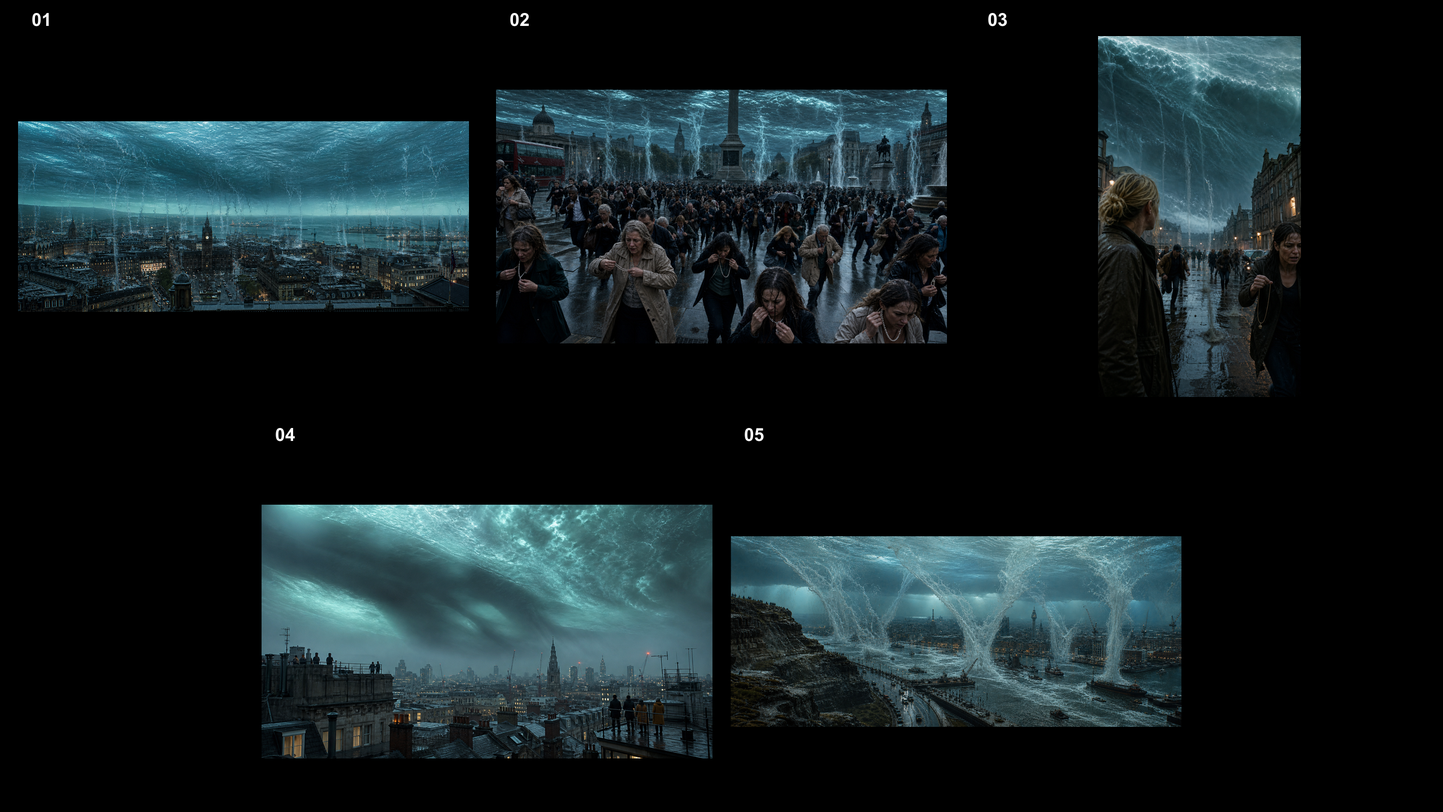
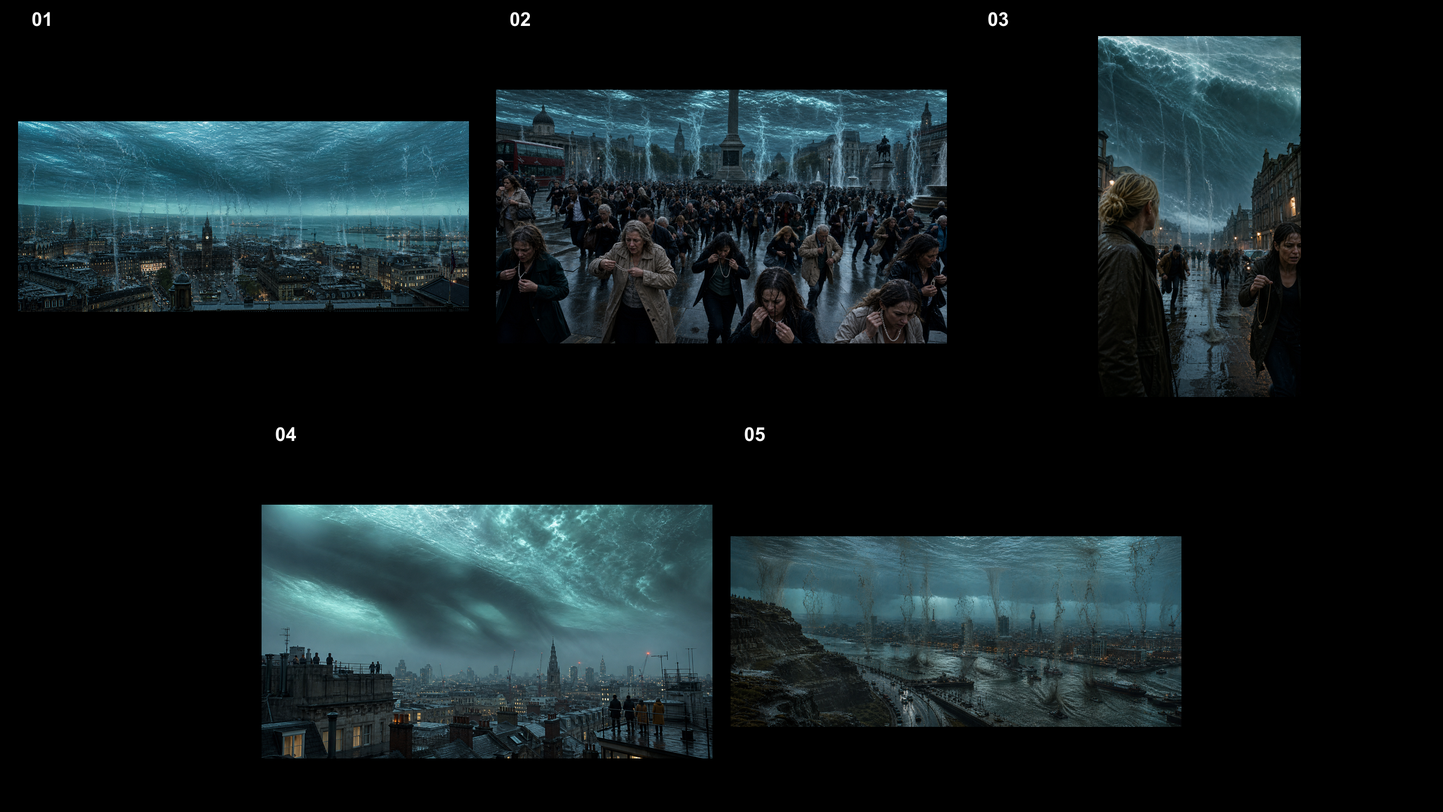
assets: remove fountain read from Sea Above harbour

Changed region(s): [[0.5, 0.6562, 0.8125, 0.9062]]

diff --git a/video-pipeline/asset-library/10-storyboard-videos/VID_MR_SEA_ABOVE_FILE_001/visual-reconstruction/reports/world-generation.md b/video-pipeline/asset-library/10-storyboard-videos/VID_MR_SEA_ABOVE_FILE_001/visual-reconstruction/reports/world-generation.md
@@ -6,7 +6,7 @@ Status: candidate-only; no scene is promoted to an accepted production path
 
 ## Method and input boundary
 
-Each scene's initial candidate was generated with the built-in image generation tool, one call per distinct scene, with no image input. Scene 01, Scene 02, Scene 03 and Scene 05 then used their own current candidate/source as the positive input for documented single-target repairs; Scene 01 had one independent-review water-physics/Mother repair, Scene 02 had one sky-and-suction repair, Scene 03 had one jewelry-state repair, and Scene 05 had an earlier banner cleanup followed by one independent-review water-physics repair using its immediately preceding final. No old or rejected environment, first-frame, style-test, protagonist, or unrelated project raster image was supplied as a positive input. No CLI/API fallback, video generation, or paid generation was used.
+Each scene's initial candidate was generated with the built-in image generation tool, one call per distinct scene, with no image input. Scene 01, Scene 02, Scene 03 and Scene 05 then used their own current candidate/source as the positive input for documented single-target repairs; Scene 01 had one independent-review water-physics/Mother repair, Scene 02 had one sky-and-suction repair, Scene 03 had one jewelry-state repair, and Scene 05 had an earlier banner cleanup, one independent-review water-physics repair using its immediately preceding final, and a second independent-review water-physics repair using the pre-arc source recorded below after the arc repair was rejected. No old or rejected environment, first-frame, style-test, protagonist, or unrelated project raster image was supplied as a positive input. No CLI/API fallback, video generation, or paid generation was used.
 
 The generated source files remain under `C:\Users\11458\.codex\generated_images\01a02344-d149-7241-b7c0-8f71c94ec11e`. Final project outputs are under `visual-reconstruction/world/`. Sharp was used with `fit: "cover"`, `position: "centre"`, Lanczos resizing, sRGB conversion, alpha removal, and PNG output; no geometric stretching was used. Masters were inspected at full resolution before and after normalization.
 
@@ -288,17 +288,83 @@ Avoid: downward rain or sediment dominance, horizontal-only turbulence, ordinary
 - Inspection evidence: the repaired full-resolution still preserves the wet cliff, working harbour/river, dense city skyline, civic towers, cranes, vessels, road, vehicles, people, asymmetrical ultra-wide perspective and overhead ocean. Four broad irregular upward-curving water sheets have visible harbour/river origins around quays and boats, broken tapered filaments, and readable top connections into the sea underside; downward sediment curtains no longer dominate. The broad arcs are intentionally prominent for still-frame reverse-flow proof and remain a review risk for possible large water-wall/fountain interpretation, but no narrow tornado funnel, perfect column, magic beam, text, logo or watermark is visible.
 - Rejected reason for prior final: independent review found downward-hanging sediment dominance and horizontal/ordinary harbour turbulence without unmistakable harbour-to-ocean reverse-flow paths.
 
+### Independent review round 2 — anti-fountain water-physics repair
+
+Independent review round 2 rejected the preceding Scene 05 water-physics repair because four smooth repeated near-parabolic arcs and bright splash bases read as conventional giant fountains. That arc-repair final and its source were not used as positive input for the replacement below. The replacement used only the pre-arc Scene 05 source recorded above, which preserves the approved cliffs, harbour, city, ships, cranes, vehicles, people, lighting and composition without inheriting the arc geometry.
+
+The first round-2 result was self-rejected after full-resolution inspection: although it removed the parabolic arcs and bright crowns, several near-vertical paths still read as repeated fountain-like columns. It was not used as positive input for the final round-2 result. A second single-target edit again used only the pre-arc source.
+
+#### Exact intermediate round-2 repair prompt (self-rejected)
+
+```text
+Use case: precise-object-edit
+Asset type: content-preserving epic ultra-wide live-action science-fiction disaster coastal panorama
+Input images: Image 1 is the sole edit target and positive reference: the pre-arc Scene 05 candidate with wet cliffs, harbour, dense city, ships, cranes, vehicles, people and overhead ocean. Do not use the current arc-repair image or any other image.
+Primary request: change ONLY the water physics. Replace the existing downward sediment and turbulence with 6–9 non-repeating, ragged, torn, near-vertical water sheets and ribbons rising directly from varied harbour/river surface locations around boats and quays into the overhead ocean. Keep every path within about 15 degrees of vertical; vary widths, heights, spacing and interruption points. Shred each edge into droplets and broken strands; let some ribbons merge into the ocean underside. The still must prove upward suction through surface deformation, not trajectory: at every lower origin the harbour surface itself is visibly stretched upward into a concave dimple, trough or temporarily exposed dark depression, with no bright splash crown or foamy fountain base.
+Scene/backdrop: preserve the exact pre-arc panorama: wet layered cliff at left, working harbour and river, dense illuminated coastal city skyline and civic tower, cranes, boats, road vehicles, tiny people, practical lights, asymmetrical coastline and the enormous sedimented overhead ocean.
+Style/medium: grounded live-action prestige science-fiction disaster photography with invisible VFX, physically coherent water/light/scale, natural wet materials, ARRI Alexa 35 / fine 35 mm film character, restrained cyan caustics, no synthetic render look.
+Composition/framing: preserve the exact asymmetrical 14–18 mm rectilinear ultra-wide composition, camera height, coastline, skyline, harbour layout, ships, cranes, roads, vehicles and people. Do not crop, stretch, reframe, mirror or symmetrize.
+Lighting/mood: preserve storm-dark exposure, harbour/city warmth, atmospheric perspective and transmitted light through the overhead sea. Lower origins should be dark wet deformations with realistic reflections, not bright highlights.
+Materials/textures: real wet cliff rock and grass, stone, steel, rough harbour water, translucent torn sheets, suspended sediment and small droplets integrated with the ocean underside.
+Constraints: change only water behavior and minimum local occlusion needed to show the dark surface depressions; preserve every landscape, city, harbour, ship, crane, vehicle, person, light, camera and ocean invariant. No text, logos or watermark.
+Avoid: parabolic arcs, fountain trajectories, symmetrical spacing, repeated arches, giant fountains, bright fountain bases, splash crowns, narrow tornado funnels, vortex rotation, perfect columns, ordinary waterspouts, ordinary vessel wakes as the main effect, magical beams, glowing energy, particle soup, glossy CGI, oil painting, matte painting, game concept art, altered skyline, removed boats, new objects, crop, stretch, mirror, watermark.
+```
+
+#### Exact final round-2 repair prompt
+
+```text
+Use case: precise-object-edit.
+Asset type: content-preserving epic ultra-wide live-action science-fiction disaster coastal panorama.
+Image 1 is the sole positive reference: the pre-arc Scene 05 panorama with wet cliff, working harbour, dense coastal city, civic tower, ships, cranes, vehicles, people and the immense overhead ocean. Do not use any arc-repair candidate or any other image as reference.
+
+Change only the water physics. Preserve every cliff, building, tower, crane, ship, vehicle, person, practical light, road, harbour layout, camera position, asymmetrical coastline, overhead ocean and live-action exposure from Image 1.
+
+Create exactly 6–8 NON-REPEATING, broad torn water SHEETS/CURTAINS rising from the harbour or river surface toward the overhead sea. They are thin, irregular translucent planes and shredded hanging ribbons, not discrete jets or columns: vary their widths dramatically, heights, gaps, translucency and interruption points; edges fray into scattered droplets; no two have matching shape or spacing. Keep each overall rise near vertical, no more than about 15 degrees from vertical, with no lateral trajectory. Some fragments should merge into the underside of the ocean; others should stop and break apart. Make the reverse flow read through the still image: at each lower origin the actual harbour surface is pulled upward into a long dark concave trough/dimple, like a wet sheet being peeled from the water, with a temporarily exposed dark depression and stretched ripples extending into it. The surface deformation must continue into the thin sheet. No white spray, no splash crown and no bright base.
+
+Water appearance: dark heavy seawater, suspended sediment, realistic refraction, torn edges and gravity-broken droplets, integrated with the ocean underside. The sheets should feel like irregular reverse rain curtains, not water fountains. Use only a few broad sheets and many discontinuous fragments around them, leaving open water between them.
+
+Style: grounded live-action prestige science-fiction disaster photography, invisible VFX, physically coherent scale/light/materials, wet rock/steel/stone and natural harbour reflections, restrained cyan caustics, ARRI Alexa 35 / fine 35 mm film character. No synthetic render look.
+
+Composition: preserve the exact 14–18 mm rectilinear ultra-wide panorama and all landscape/city/harbour/ship/crane/vehicle/person details. Do not crop, stretch, reframe, mirror or symmetrize. No text, logos or watermark.
+
+Strictly avoid: any fountain, jet, geyser, spout, splash base, splash crown, upright column, repeated vertical pillar, parabolic arc, arch, trajectory, waterspout, tornado funnel, vortex, water cannon, magical beam, glowing energy, particle soup, ordinary wake, glossy CGI, matte/concept/game art, altered skyline or missing objects.
+```
+
+#### Repaired provenance and output
+
+- Arc-repair final rejected by independent review: `video-pipeline/asset-library/10-storyboard-videos/VID_MR_SEA_ABOVE_FILE_001/visual-reconstruction/world/scene-05-cliffs-harbour-ocean.png`
[1 lines of base64/hex data omitted]
+- Arc-repair final metadata: PNG, 2560×1080, sRGB, 3 channels, 8-bit uchar, no alpha
+- Arc-repair source not used as positive input: `C:\Users\11458\.codex\generated_images\01a02344-d149-7241-b7c0-8f71c94ec11e\exec-5bfb9241-b553-474c-bc47-78a302e53a73.png`
[1 lines of base64/hex data omitted]
+- Sole positive source for both round-2 attempts: `C:\Users\11458\.codex\generated_images\01a02344-d149-7241-b7c0-8f71c94ec11e\exec-a15bac1f-209f-4a32-9d23-4a4b871c8577.png`
[2 lines of base64/hex data omitted]
+- Intermediate round-2 source (self-rejected): `C:\Users\11458\.codex\generated_images\01a02344-d149-7241-b7c0-8f71c94ec11e\exec-d99c9cea-6446-49f9-af72-def1975f8cae.png`
[1 lines of base64/hex data omitted]
+- Intermediate round-2 source metadata: PNG, 1927×816, sRGB, 3 channels, 8-bit uchar, no alpha
[1 lines of base64/hex data omitted]
+- Intermediate rejection: full-resolution inspection found no parabolic arcs or bright crowns, but repeated near-vertical paths still read too much like fountain columns; it was discarded and never used as a positive input.
+- Final round-2 repair source: `C:\Users\11458\.codex\generated_images\01a02344-d149-7241-b7c0-8f71c94ec11e\exec-158c08fc-5ba0-4886-8916-2209b1d2e383.png`
[1 lines of base64/hex data omitted]
+- Final round-2 repair source metadata: PNG, 1928×816, sRGB, 3 channels, 8-bit uchar, no alpha
+- Final output: `video-pipeline/asset-library/10-storyboard-videos/VID_MR_SEA_ABOVE_FILE_001/visual-reconstruction/world/scene-05-cliffs-harbour-ocean.png`
[1 lines of base64/hex data omitted]
+- Final metadata: PNG, 2560×1080, sRGB, 3 channels, 8-bit uchar, no alpha
+- Inspection evidence: full-resolution inspection preserves the wet cliff and tiny people at left, working harbour and river, dense illuminated city skyline and civic tower, cranes, ships, road vehicles, practical lights, asymmetrical 14–18 mm composition and the full overhead ocean. The final water behavior is carried by 6–8 visibly non-repeating ragged near-vertical sheets/curtains plus broken fragments, with varied widths, interruptions and shredded droplet edges. Multiple lower origins show the harbour surface stretched into dark concave troughs/depressions with ripples pulled into them; some sheets merge into the ocean underside. No parabolic arc, repeated arch, bright splash crown/base, funnel, perfect column, ordinary wake, magical beam, glossy CGI, text or watermark is visible. Residual review risk: at some scales a few narrow fragments and dark deformations may still be interpreted as vertical suction columns, but the rejected smooth arcs and bright fountain bases are absent.
+- Rejected reason for the arc version: independent review found four smooth repeated near-parabolic arcs and bright splash bases that read as conventional giant fountains; the arc image was explicitly excluded from the round-2 positive-input boundary.
+
 ## Deterministic overview
 
 - Output: `video-pipeline/asset-library/10-storyboard-videos/VID_MR_SEA_ABOVE_FILE_001/visual-reconstruction/world/world-overview.png`
[2 lines of base64/hex data omitted]
 - Metadata: PNG, 2560×1440, sRGB, 3 channels, 8-bit uchar, no alpha
 - Construction: Sharp-created black RGB canvas; deterministic five-cell layout in `01`, `02`, `03` top row and `04`, `05` bottom row. White labels are confined to 64-pixel black top gutters; source masters are only composited into contained previews and remain unchanged.
 - Inspection evidence: all labels are legible and outside image pixels; all five scenes are identifiable at overview scale, with the portrait street frame remaining visibly vertical.
 
 ## Rejection and repair ledger
 
-Five targeted repairs are recorded. Scene 01 received one independent-review edit to replace waterspout-like funnels with grounded reverse-rain filaments and clarify the diffuse Mother pressure band. Scene 02 received one identity-preserving edit to replace ordinary storm sky/rain-like strings with a dark kilometre-wide inverted ocean and irregular grounded suction while preserving crowd/architecture/jewellery gestures. Scene 03 received one strict single-variable edit to make the removed necklace loop and bare neck unambiguous. Scene 05 first received one identity-preserving edit to remove a letter-like cliff-top banner, then one independent-review repair to make harbour-to-ocean reverse flow unmistakable while preserving world-scale content. All repair targets were the current scene candidate or immediately preceding final, not old project assets; no old rejected environment, first-frame, style-test, or protagonist image was used as a positive input. Existing rejected project images were not opened or supplied to generation.
+Six targeted repairs are recorded. Scene 01 received one independent-review edit to replace waterspout-like funnels with grounded reverse-rain filaments and clarify the diffuse Mother pressure band. Scene 02 received one identity-preserving edit to replace ordinary storm sky/rain-like strings with a dark kilometre-wide inverted ocean and irregular grounded suction while preserving crowd/architecture/jewellery gestures. Scene 03 received one strict single-variable edit to make the removed necklace loop and bare neck unambiguous. Scene 05 received one identity-preserving edit to remove a letter-like cliff-top banner, one independent-review repair that was rejected for repeated fountain-like arcs, and a second independent-review repair using the pre-arc source to replace that geometry with ragged near-vertical suction curtains. All repair targets were the current scene candidate or immediately preceding final except the two round-2 Scene 05 attempts, which deliberately reused only the pre-arc source; no old rejected environment, first-frame, style-test, or protagonist image was used as a positive input. Existing rejected project images were not opened or supplied to generation.
 
 ## Output inventory
 
@@ -309,5 +375,5 @@ Five targeted repairs are recorded. Scene 01 received one independent-review edi
[7 lines of base64/hex data omitted]

diff --git a/.superpowers/sdd/2026-08-21-the-sea-above-visual-reconstruction/task-3-report.md b/.superpowers/sdd/2026-08-21-the-sea-above-visual-reconstruction/task-3-report.md
@@ -20,16 +20,16 @@ No character, accepted-character, accepted-environment, first-frame, director-ca
 
 ## Generation and inspection result
 
-Each scene's initial candidate was generated with the built-in image-generation tool, one call per scene and no image input. Scene 01, Scene 02, Scene 03 and Scene 05 then used their own current candidate/source as the positive input for documented single-target repairs; Scene 01 had one independent-review water-physics/Mother repair, Scene 02 had one sky-and-suction repair, Scene 03 had one jewelry-state repair, and Scene 05 had one earlier banner cleanup plus one independent-review water-physics repair. Every generated source was inspected with `view_image` before normalization. Every final full-resolution output and the overview were inspected after Sharp processing.
+Each scene's initial candidate was generated with the built-in image-generation tool, one call per scene and no image input. Scene 01, Scene 02, Scene 03 and Scene 05 then used their own current candidate/source as the positive input for documented single-target repairs; Scene 01 had one independent-review water-physics/Mother repair, Scene 02 had one sky-and-suction repair, Scene 03 had one jewelry-state repair, and Scene 05 had one earlier banner cleanup, one independent-review arc repair that was rejected, and a final independent-review water-physics repair using only the pre-arc source. Every generated source was inspected with `view_image` before normalization. Every final full-resolution output and the overview were inspected after Sharp processing.
 
 - Scene 01: repaired after independent review rejected the prior final because long twisted filaments read as waterspout/tornado funnels and the Mother shadow was indistinct from ocean wave texture. The replacement preserves the ultra-wide city beneath a horizon-spanning ocean with dense districts, civic tower, harbour, rail/road corridors, cranes, vessels, distant cliffs, tiny people/traffic and a crop-safe central corridor. Smaller grounded reverse-rain filaments now attach to roads, roofs, gutters, river and harbour before breaking upward; a broad incomplete diffuse pressure band crosses multiple districts without anatomy. The new 9:16 crop proof retains ocean, city, harbour, rooftop and multiple scale cues. The pressure band remains a review risk at overview scale.
 - Scene 02: repaired after parent visual-gate rejection of the pre-edit master. The pre-edit crowd/jewellery composition was preserved while one identity-preserving edit replaced ordinary storm sky/rain-like strings with a dark kilometre-wide inverted ocean and irregular grounded suction sheets. Several foreground and midground adults still visibly unfasten or hold pearl necklaces away from necks; no obvious duplicated faces, repeated extras, crowd smear, ordinary sky/rain, or hands-only-covering-ears gesture survived the repaired full-resolution inspection.
 - Scene 03: repaired after independent review rejected the prior final because the right-foreground jewelry state did not unambiguously prove the necklace was already removed and held away from the neck. The strict single-variable repair preserves the anonymous off-axis blonde stand-in, fleeing crowd, buildings/cars/lighting, overhead ocean and ground-origin suction; the right foreground civilian now has a bare neck/collarbone and visibly holds a complete closed necklace loop with pendant at arm's length. No centred fashion pose, perfect column, splash crown, bead string, ordinary rain field, duplicated face pattern, or motion-dependent direction was observed; no accepted-character claim is made.
 - Scene 04: accepted for this Task 3 candidate handoff. Fresh low 14–18 mm rooftop generation was inspected full-resolution: slate/brick roofs, chimneys, cranes, towers and antennas recede across city depth with tiny people on multiple left/right rooflines. Mother is only broad diffuse shadow/pressure distortion in the overhead ocean; no eye, face, limb, teeth, tentacle, anatomy, head, torso or complete silhouette is visible.
-- Scene 05: repaired after independent review rejected the prior final for downward-hanging sediment dominance and insufficiently explicit harbour-to-ocean reverse flow. The content-preserving repair retains the asymmetrical cliffs, working harbour/river, skyline, cranes, vessels, vehicles, people and deep overhead sea; four broad irregular upward-curving sheets now visibly originate around quays/boats and connect into the sea underside. The prominent arcs remain a review risk for possible large water-wall/fountain interpretation.
+- Scene 05: the first water-physics repair was rejected in independent review because four smooth repeated near-parabolic arcs and bright splash bases read as conventional giant fountains. That arc image was not used as a positive reference. The replacement used only the pre-arc source and preserves the asymmetrical cliffs, working harbour/river, skyline, cranes, vessels, vehicles, people and deep overhead sea; non-repeating ragged near-vertical sheets/curtains now rise through dark harbour-surface troughs/depressions with broken edges and no parabolic arcs or bright fountain bases. Full-resolution inspection still flags a residual risk that a few narrow fragments may read as vertical suction columns.
 - Overview: accepted. Deterministic 2560×1440 black RGB canvas with cells `01`–`05`; labels are confined to 64-pixel black top gutters and masters remain unchanged.
 
-Scene 01 received one independent-review water-physics/Mother repair using its current Scene 01 candidate as the sole positive edit target. Scene 02 had one identity-preserving repair after the parent visual gate found ordinary storm sky and rain-like filaments; the sole positive edit target was its own newly generated Scene 02 candidate. Scene 03 received one strict single-variable jewelry-state repair using its current Scene 03 candidate as the sole positive edit target. Scene 05 first received one targeted repair for a small letter-like cliff-top banner, then one independent-review water-physics repair using the immediately preceding Scene 05 final as the sole positive edit target. No old or rejected environment, first-frame, style-test, protagonist, or unrelated project image was used as a positive input.
+Scene 01 received one independent-review water-physics/Mother repair using its current Scene 01 candidate as the sole positive edit target. Scene 02 had one identity-preserving repair after the parent visual gate found ordinary storm sky and rain-like filaments; the sole positive edit target was its own newly generated Scene 02 candidate. Scene 03 received one strict single-variable jewelry-state repair using its current Scene 03 candidate as the sole positive edit target. Scene 05 first received one targeted repair for a small letter-like cliff-top banner, then an independent-review arc repair using the immediately preceding Scene 05 final that was rejected, followed by two controlled round-2 attempts using only the pre-arc source; the first round-2 result was self-rejected for residual fountain-like columns and the final round-2 result is recorded below. No old or rejected environment, first-frame, style-test, protagonist, or unrelated project image was used as a positive input.
 
 ## Scene 01 round 1 repair provenance
 
@@ -105,6 +105,38 @@ Avoid: downward rain or sediment dominance, horizontal-only turbulence, ordinary
[1 lines of base64/hex data omitted]
 - Inspection: four broad irregular upward-curving sheets visibly originate around quays/boats, break into tapered filaments and connect to the sea underside; cliffs, harbour, city, scale cues, vessels, cranes, vehicles, people, framing and live-action realism remain. The arcs remain a reviewer risk for possible large water-wall/fountain interpretation.
 
+### Scene 05 round 2 repair provenance
+
+Independent review round 2 rejected the preceding Scene 05 water-physics repair because four smooth repeated near-parabolic arcs and bright splash bases read as conventional giant fountains. The arc-repair image and its source were explicitly excluded from the positive-input boundary. The replacement used only the pre-arc Scene 05 source associated with the approved pre-arc final SHA-256 6C1688E735492652C4CDCF22825ADA6FEF628175507D7E9E9B9FC1A43B7B1DCC. The first round-2 result was self-rejected after full-resolution inspection because repeated near-vertical paths still read too much like fountain columns; it was not used as positive input.
+
+The final round-2 edit used this exact prompt with the pre-arc source as its sole positive input:
+
+```text
+Use case: precise-object-edit.
+Asset type: content-preserving epic ultra-wide live-action science-fiction disaster coastal panorama.
+Image 1 is the sole positive reference: the pre-arc Scene 05 panorama with wet cliff, working harbour, dense coastal city, civic tower, ships, cranes, vehicles, people and the immense overhead ocean. Do not use any arc-repair candidate or any other image as reference.
+
+Change only the water physics. Preserve every cliff, building, tower, crane, ship, vehicle, person, practical light, road, harbour layout, camera position, asymmetrical coastline, overhead ocean and live-action exposure from Image 1.
+
+Create exactly 6–8 NON-REPEATING, broad torn water SHEETS/CURTAINS rising from the harbour or river surface toward the overhead sea. They are thin, irregular translucent planes and shredded hanging ribbons, not discrete jets or columns: vary their widths dramatically, heights, gaps, translucency and interruption points; edges fray into scattered droplets; no two have matching shape or spacing. Keep each overall rise near vertical, no more than about 15 degrees from vertical, with no lateral trajectory. Some fragments should merge into the underside of the ocean; others should stop and break apart. Make the reverse flow read through the still image: at each lower origin the actual harbour surface is pulled upward into a long dark concave trough/dimple, like a wet sheet being peeled from the water, with a temporarily exposed dark depression and stretched ripples extending into it. The surface deformation must continue into the thin sheet. No white spray, no splash crown and no bright base.
+
+Water appearance: dark heavy seawater, suspended sediment, realistic refraction, torn edges and gravity-broken droplets, integrated with the ocean underside. The sheets should feel like irregular reverse rain curtains, not water fountains. Use only a few broad sheets and many discontinuous fragments around them, leaving open water between them.
+
+Style: grounded live-action prestige science-fiction disaster photography, invisible VFX, physically coherent scale/light/materials, wet rock/steel/stone and natural harbour reflections, restrained cyan caustics, ARRI Alexa 35 / fine 35 mm film character. No synthetic render look.
+
+Composition: preserve the exact 14–18 mm rectilinear ultra-wide panorama and all landscape/city/harbour/ship/crane/vehicle/person details. Do not crop, stretch, reframe, mirror or symmetrize. No text, logos or watermark.
+
+Strictly avoid: any fountain, jet, geyser, spout, splash base, splash crown, upright column, repeated vertical pillar, parabolic arc, arch, trajectory, waterspout, tornado funnel, vortex, water cannon, magical beam, glowing energy, particle soup, ordinary wake, glossy CGI, matte/concept/game art, altered skyline or missing objects.
+```
+
[6 lines of base64/hex data omitted]
+- Inspection: full-resolution final preserves cliffs, harbour/river, dense city/civic tower, cranes, ships, vehicles, people, practical lights, asymmetrical 14–18 mm framing and overhead ocean. Six–eight visibly non-repeating ragged near-vertical sheets/curtains and broken fragments have varied widths and interruptions; multiple lower origins show dark concave harbour-surface troughs/depressions with stretched ripples, and some fragments merge into the ocean underside. No parabolic arcs, repeated arches, bright splash bases/crowns, funnels, perfect columns, magical beams, glossy CGI, text or watermark were observed. Residual risk: a few narrow fragments and dark deformations may still read as vertical suction columns at some scales.
+
 ## Final hashes
 
 | File | Dimensions | Channels | SHA-256 |
@@ -114,8 +146,8 @@ Avoid: downward rain or sediment dominance, horizontal-only turbulence, ordinary
[7 lines of base64/hex data omitted]
 
 Exact prompts, generated source paths, source hashes/metadata, final output hashes/metadata, inspection evidence, rejection ledger, and Sharp normalization details are recorded in `visual-reconstruction/reports/world-generation.md`.
 
